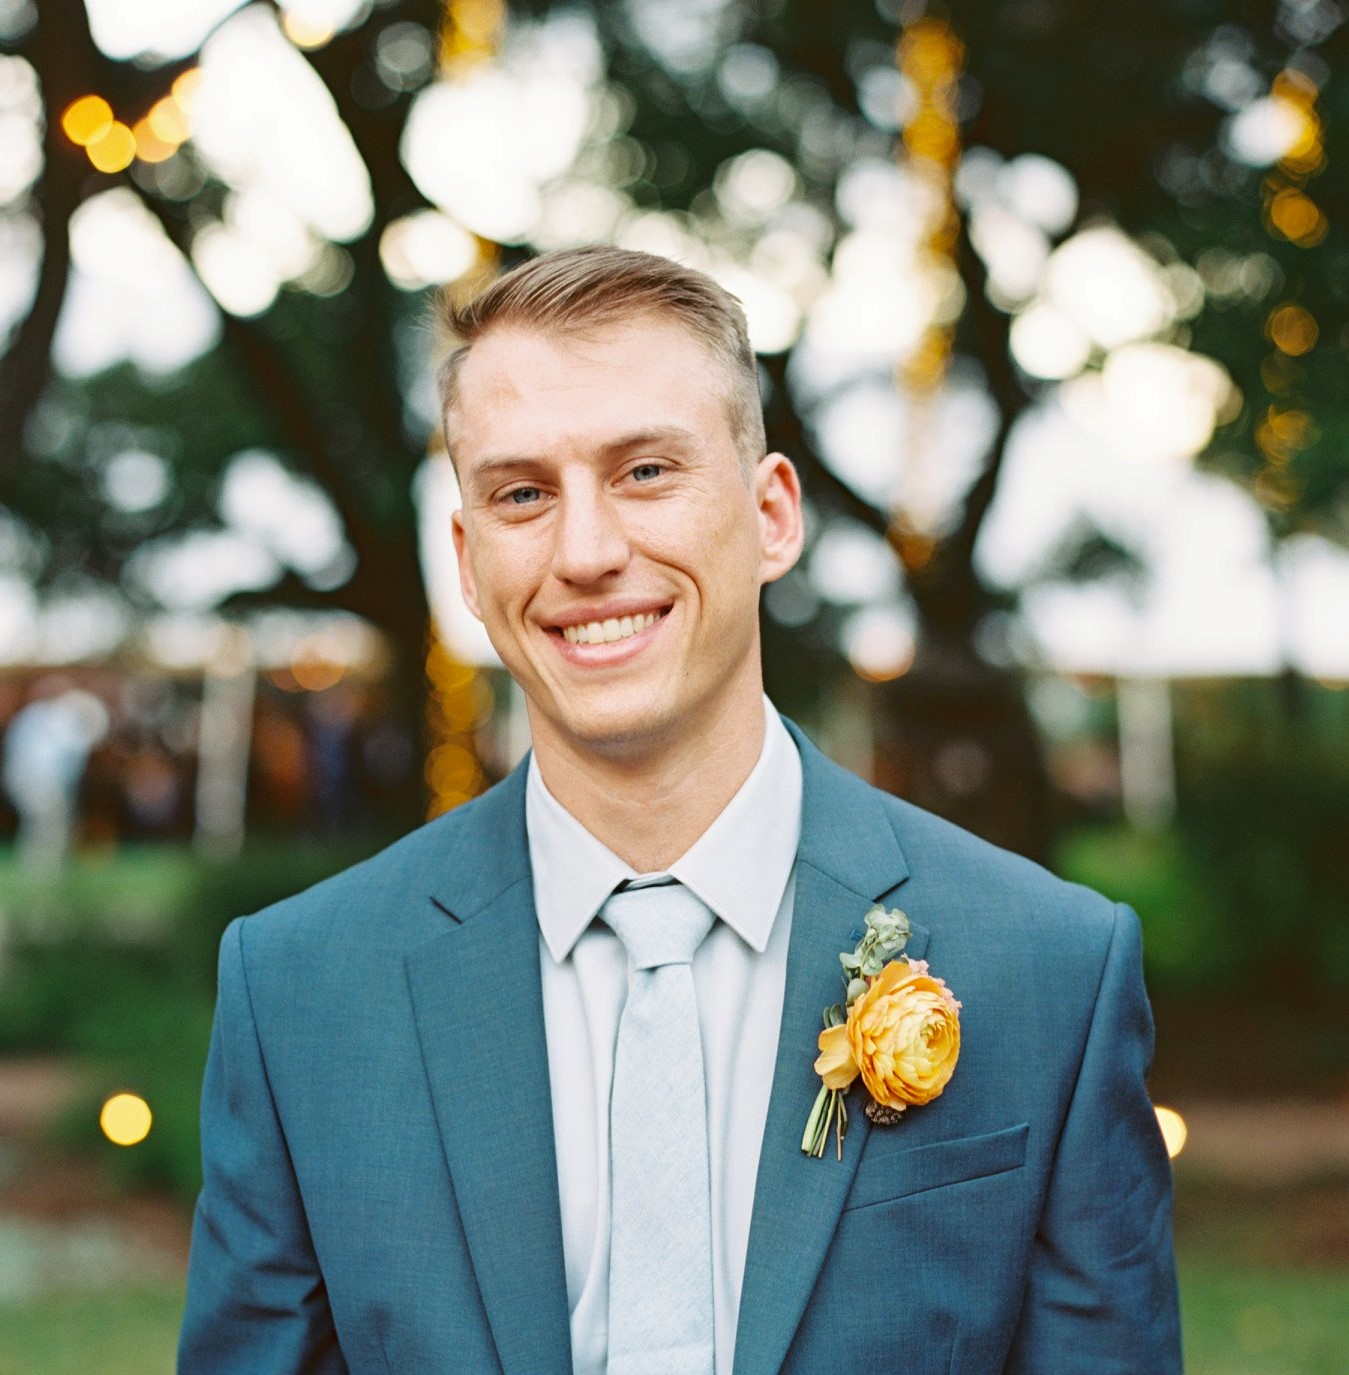
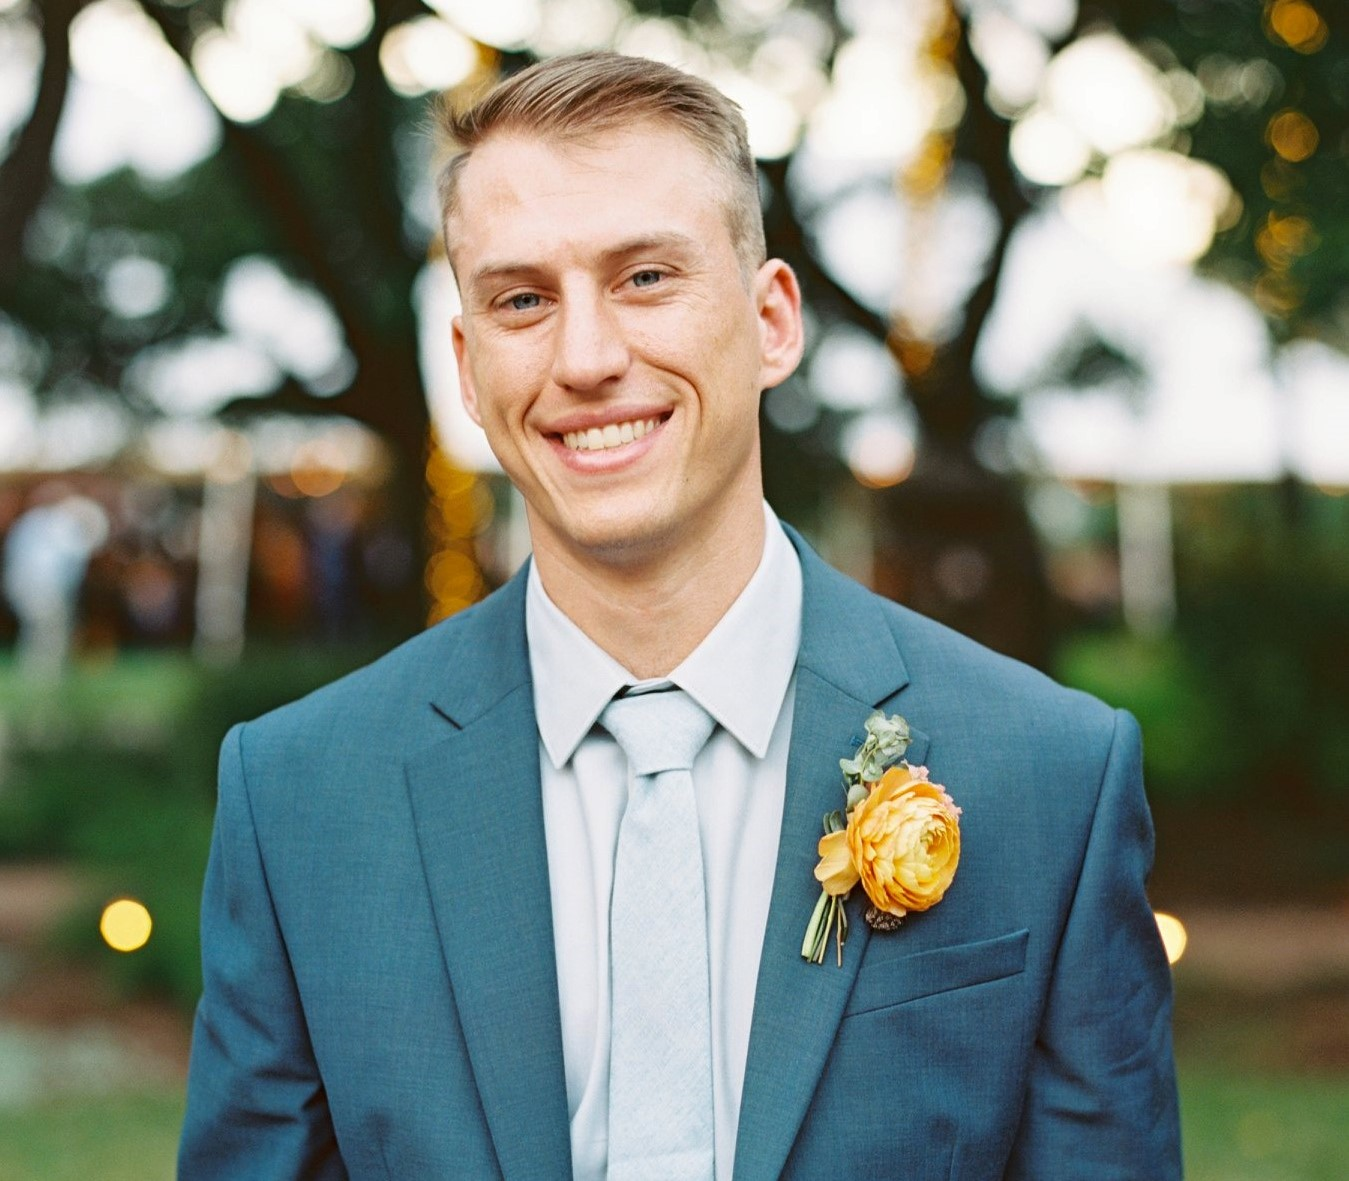
Removed hosted images and added assets/images file path with images in folder

diff --git a/src/components/NavBar/NavBar.js b/src/components/NavBar/NavBar.js
@@ -14,24 +14,20 @@ const NavBar = () => (
   <div className="navContainer">
   <Row className="navContainer" >
  
- <Col md="4" className="profilePicColOutside" >
- <Col className="profilePicColInside">
-    <div className="profilePic">
-    
-      <img className="headshot" src="http://i63.tinypic.com/2ef82aa.jpg" alt="headshot"/>
-    </div>
+    <Col md="4" className="profilePicColOutside" >
+    <Col className="profilePicColInside">
+      <div className="profilePic">
+        <img className="headshot" src="/assets/images/Austin_Walker.jpg" alt="headshot"/>
+      </div>
     </Col>
-  </Col>
-   <Col className="colRows" >
-   
-    <Row className="navRowOne ">   
-      <nav className="austinWBox">
-        
-        <div className="nameBox">
-          <h1 className="austinW">Austin Walker</h1>   
-        </div>
-      </nav>
-      
+    </Col>
+    <Col className="colRows" >
+      <Row className="navRowOne ">   
+        <nav className="austinWBox">
+          <div className="nameBox">
+            <h1 className="austinW">Austin Walker</h1>   
+          </div>
+        </nav>
       </Row>
       <Row className="navRowTwo">
         <nav className="titleBox">
@@ -39,55 +35,42 @@ const NavBar = () => (
             <h1 className="title">Full Stack Web Developer</h1>  
           </div>
         </nav>
-  
       </Row>
-      
       <Row className="modalRow">
-        
         <Col className="modalRowOne" md="6">
-        <nav className="modalNav">
-          <div className="navbar-brand modalBtnRow">
-            <ResumeModal/>
-          </div>
-          {/* --------Work in progress ------------ */}
-          {/* <div className="navbar-brand modalBtnRow">
-          <Link to="/resume"><button type="button" class="btn btn-primary">Resume</button> </Link>
-          </div> */}
-          <div className="navbar-brand modalBtnRow">
-            <InfoModal/>
-          </div>
-          <div className="navbar-brand modalBtnRow">
-          <SkillsModal/>
-          </div>
-          <div className="navbar-brand modalBtnRow">
-            <ExperienceModal/>
-          </div>
-          </nav>
-          </Col>
-          <Col className="modalRowTwo" md="6">
           <nav className="modalNav">
-          <div className="navbar-brand modalBtnRow">
-            <EducationModal/>
-          </div>
-          <div className="navbar-brand modalBtnRow">
-            <BioModal/>
-          </div> 
-          <div className="navbar-brand modalBtnRow">
-          <a className="logo" href="https://github.com/austingwalker?tab=repositories" target="_blank" rel='noreferrer noopener'><button type="button" className="btn github"><i className="fab fa-github fa-3x"></i><h5 className="logoTitle">GitHub</h5></button></a>
-            
-          </div>
-          <div className="navbar-brand modalBtnRow" >
-          <a className="logo" href="https://www.linkedin.com/in/austin-walker-aa0aab129/" target="_blank" rel='noreferrer noopener'> <button type="button" className="btn linkedIn" ><i className="fab fa-linkedin fa-3x "></i><h5 className="logoTitle">LinkedIn</h5></button></a>
-            
-          </div>
-          </nav>
+              <div className="navbar-brand modalBtnRow">
+                <ResumeModal/>
+              </div>
+              <div className="navbar-brand modalBtnRow">
+                <InfoModal/>
+              </div>
+              <div className="navbar-brand modalBtnRow">
+              <SkillsModal/>
+              </div>
+              <div className="navbar-brand modalBtnRow">
+                <ExperienceModal/>
+              </div>
+              </nav>
+              </Col>
+              <Col className="modalRowTwo" md="6">
+              <nav className="modalNav">
+              <div className="navbar-brand modalBtnRow">
+                <EducationModal/>
+              </div>
+              <div className="navbar-brand modalBtnRow">
+                <BioModal/>
+              </div> 
+              <div className="navbar-brand modalBtnRow">
+                <a className="logo" href="https://github.com/austingwalker?tab=repositories" target="_blank" rel='noreferrer noopener'><button type="button" className="btn github"><i className="fab fa-github fa-3x"></i><h5 className="logoTitle">GitHub</h5></button></a>
+              </div>
+              <div className="navbar-brand modalBtnRow" >
+                <a className="logo" href="https://www.linkedin.com/in/austin-walker-aa0aab129/" target="_blank" rel='noreferrer noopener'> <button type="button" className="btn linkedIn" ><i className="fab fa-linkedin fa-3x "></i><h5 className="logoTitle">LinkedIn</h5></button></a>
+              </div>
+            </nav>
           </Col>
-        
-    
       </Row>
       </Col>
-    
-    
     </Row>
   </div>
 );

diff --git a/public/index.html b/public/index.html
@@ -2,7 +2,7 @@
 <html lang="en">
   <head>
     <meta charset="utf-8" />
-    <link rel="shortcut icon" href="%PUBLIC_URL%/favicon.ico" />
+    <link rel="shortcut icon" href="%PUBLIC_URL%/favicon.ico"/>
     <meta
       name="viewport"
       content="width=device-width, initial-scale=1, shrink-to-fit=no"
@@ -12,7 +12,7 @@
       manifest.json provides metadata used when your web app is installed on a
       user's mobile device or desktop. See https://developers.google.com/web/fundamentals/web-app-manifest/
     -->
-    <link rel="manifest" href="%PUBLIC_URL%/manifest.json" />
+    <link rel="manifest" href="%PUBLIC_URL%/manifest.json"/>
     <!--
       Notice the use of %PUBLIC_URL% in the tags above.
       It will be replaced with the URL of the `public` folder during the build.

diff --git a/src/pages/PortfolioContainer.js b/src/pages/PortfolioContainer.js
@@ -13,16 +13,12 @@ class Portfolio extends Component {
     
   };
 
-
   render() {
     return (
       <div>
-       
         <NavBar/>
         <Container className="containerBox" fluid>
-
           <Row className="portfolioRow">
-            
             {this.state.portfolioItemsOne.map(item => (
               <Col key={item.id} className="noGuttersP" >
               <Content
@@ -37,9 +33,7 @@ class Portfolio extends Component {
               />  
               </Col>
             ))}   
-            
           </Row>
-
           <Row>
             <Col className="noGutters" md="12"><Footer/></Col>
           </Row>

diff --git a/src/components/NavBar/NavBar.css b/src/components/NavBar/NavBar.css
@@ -122,7 +122,7 @@ color:white;
    
     margin: 0px;
     padding: 0px;
-      background-image: url("http://i63.tinypic.com/2ef82aa.jpg");
+      background-image: url("/assets/images/Austin_Walker.jpg");
       background-size: cover;
       z-index: 10;
      
